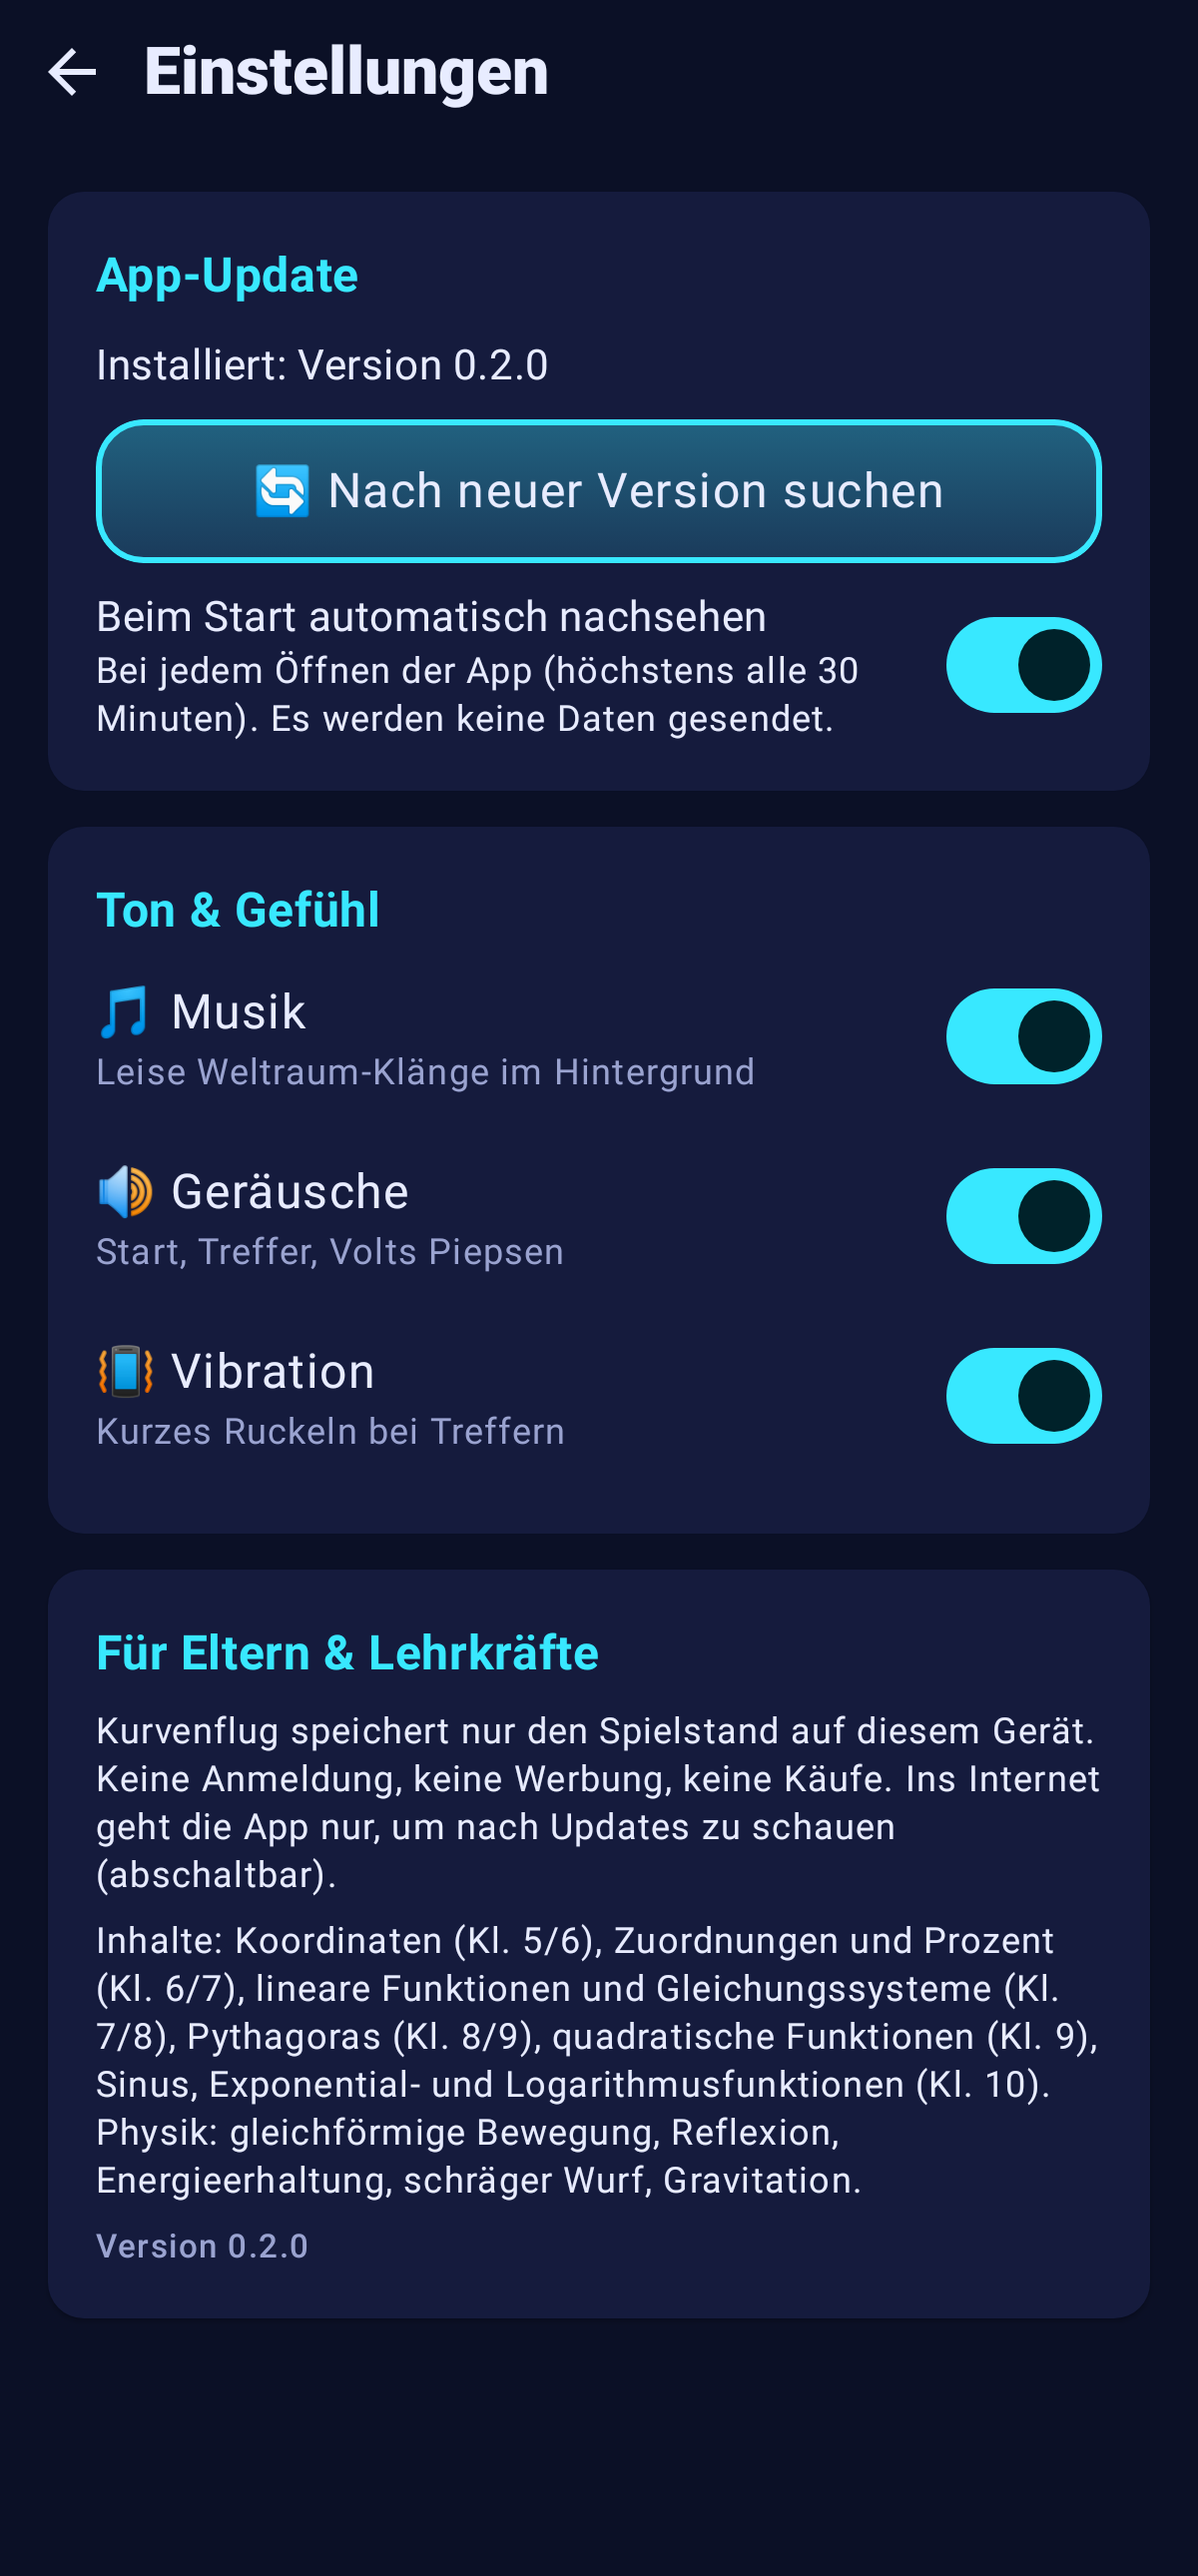
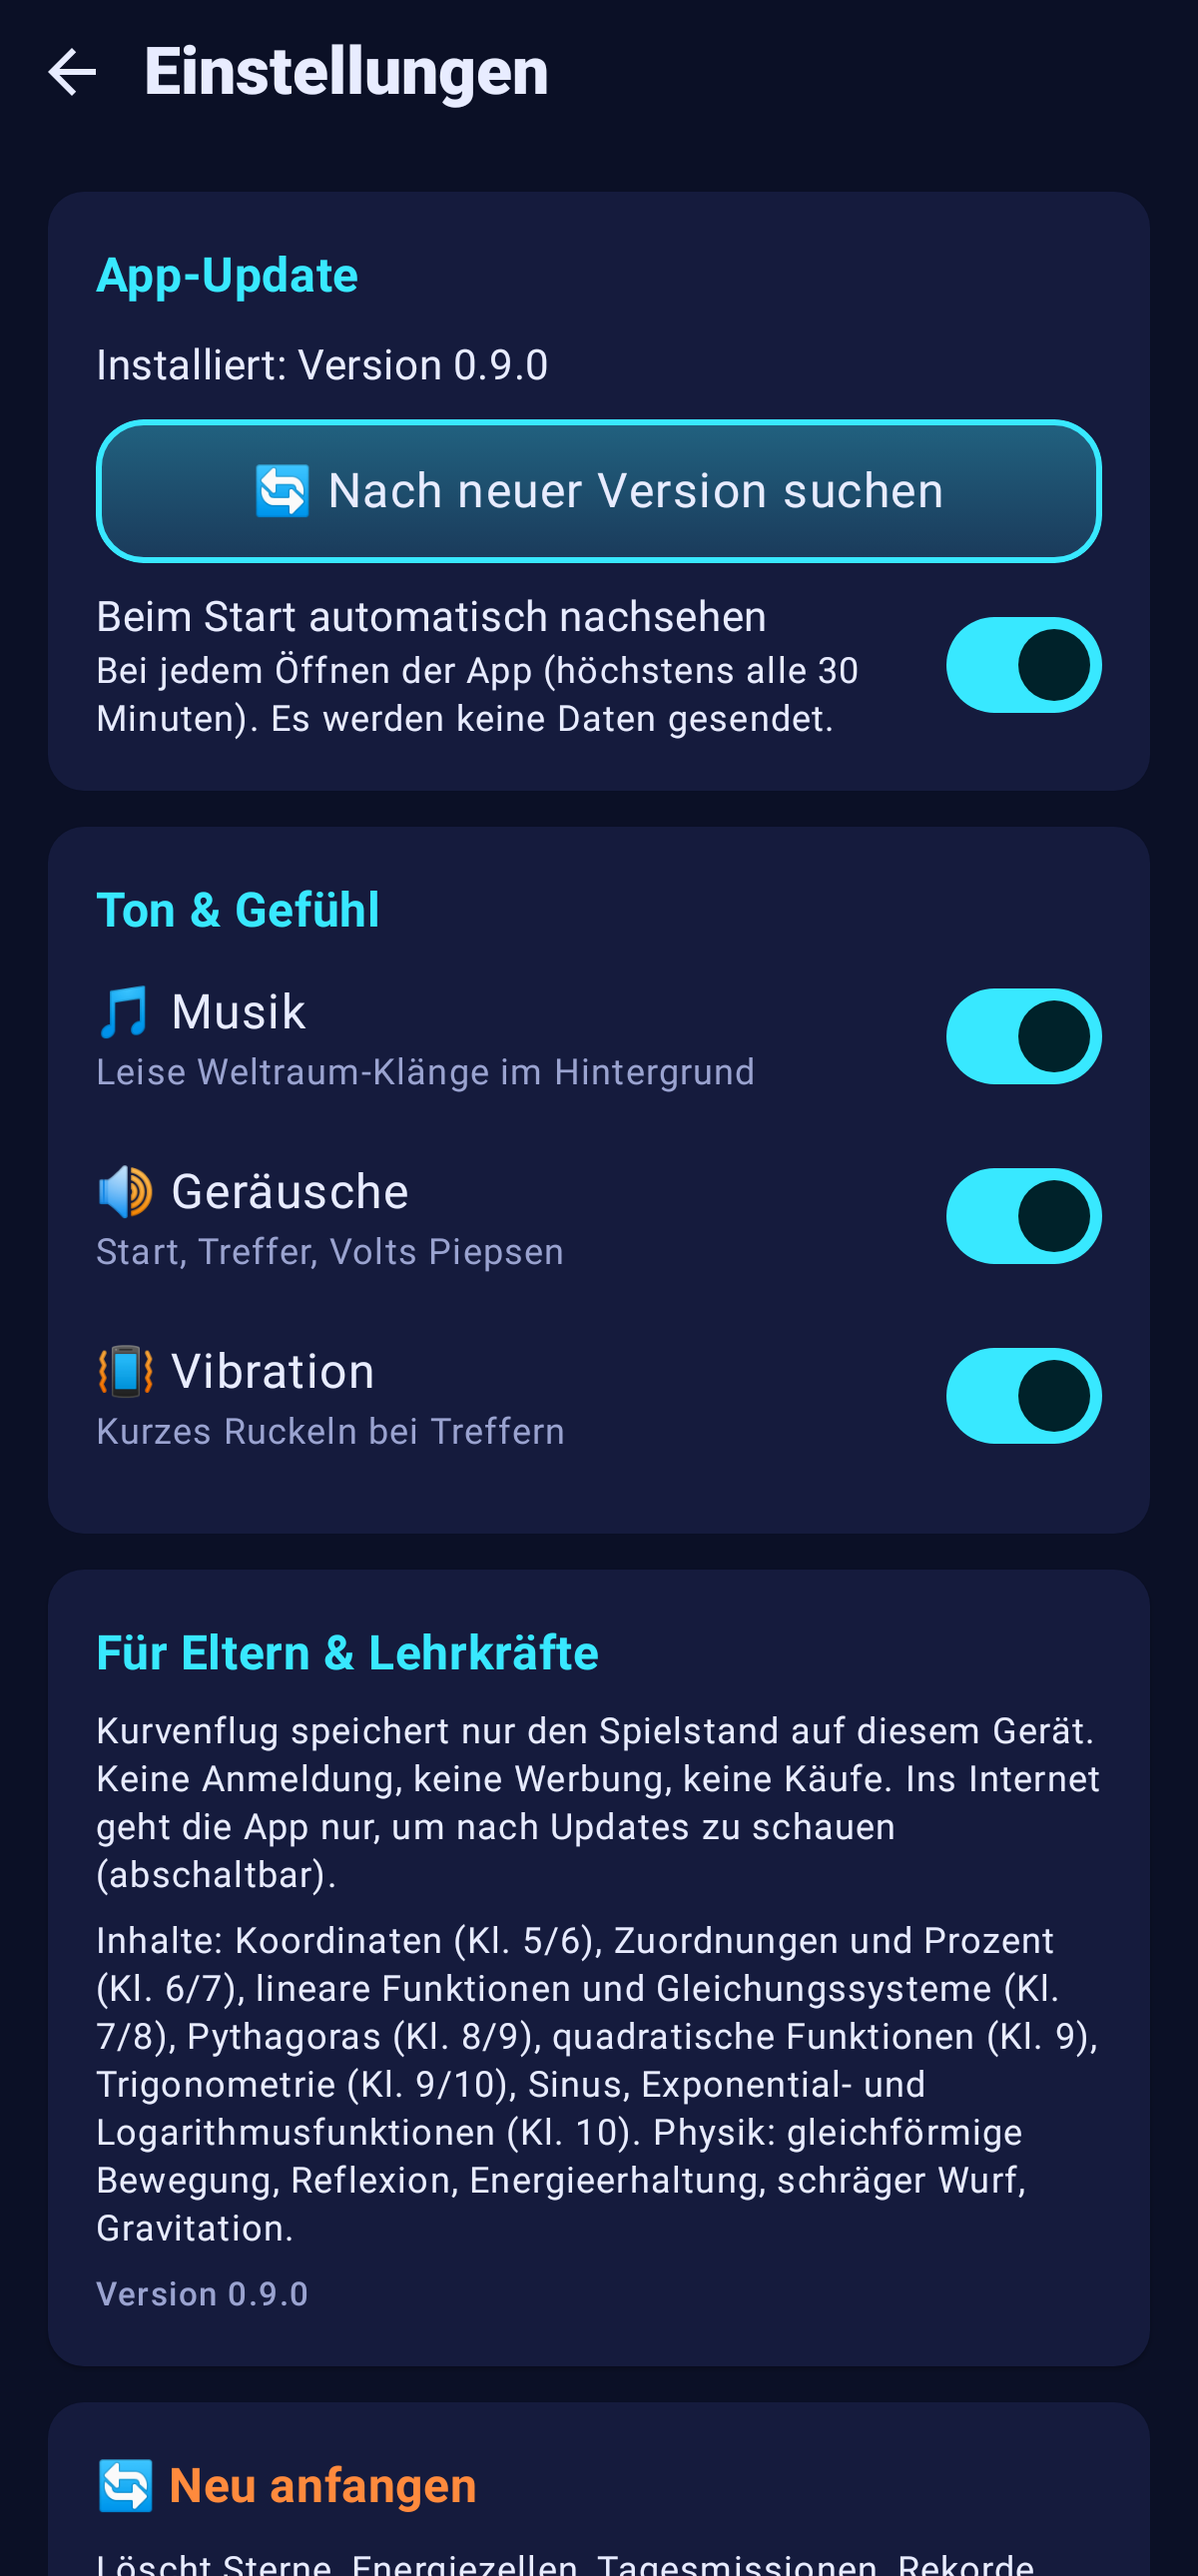
Kurvenflug 0.9.1: Fortschritt zurücksetzen (Neu anfangen)
- ProgressRepository.clear(), Settings.resetGame(): Spielstand, Rekorde, Klasse, Abzeichen, Erklärungen, Aussehen
  zurück; Ton/Musik/Vibration, Update-Einstellung und eigene Level bleiben
- Einstellungen: Karte „Neu anfangen“ mit 2 s Gedrückthalten (Balken), danach Widget aktualisiert
- Tests: Datentests für Löschen/Zurücksetzen, Ablauftest für langes Drücken

Claude-Session: https://claude.ai/code/session_015vg1TniCB6sLGd2dNSJdge

Changed region(s): [[0.0617, 0.8062, 0.8633, 0.8992], [0.0617, 0.9302, 0.8633, 1.0]]

diff --git a/kurvenflug/app/src/main/java/de/kurvenflug/app/ui/settings/SettingsScreen.kt b/kurvenflug/app/src/main/java/de/kurvenflug/app/ui/settings/SettingsScreen.kt
@@ -1,12 +1,19 @@
 package de.kurvenflug.app.ui.settings
 
+import kotlinx.coroutines.launch
+import de.kurvenflug.app.ui.fx.buzz
+import androidx.compose.ui.input.pointer.pointerInput
+import androidx.compose.ui.draw.clip
+import androidx.compose.foundation.gestures.detectTapGestures
+import androidx.compose.foundation.border
+import androidx.compose.foundation.background
 import androidx.compose.foundation.layout.*
 import androidx.compose.foundation.rememberScrollState
 import androidx.compose.foundation.verticalScroll
 import androidx.compose.material.icons.Icons
 import androidx.compose.material.icons.automirrored.filled.ArrowBack
 import androidx.compose.material3.*
-import androidx.compose.runtime.Composable
+import androidx.compose.runtime.*
 import androidx.compose.ui.Alignment
 import androidx.compose.ui.Modifier
 import androidx.compose.ui.unit.dp
@@ -22,6 +29,8 @@ fun SettingsScreen(
     installed: String,
     update: UpdateState,
     onBack: () -> Unit,
+    /** Neu anfangen: Spielstand löschen (nach 2 s Gedrückthalten) */
+    onReset: (() -> Unit)? = null,
 ) {
     Column(Modifier.fillMaxSize().systemBarsPadding()) {
         Row(verticalAlignment = Alignment.CenterVertically) {
@@ -44,11 +53,12 @@ fun SettingsScreen(
                     Text("Kurvenflug speichert nur den Spielstand auf diesem Gerät. Keine Anmeldung, keine Werbung, keine Käufe. " +
                         "Ins Internet geht die App nur, um nach Updates zu schauen (abschaltbar).", style = MaterialTheme.typography.bodySmall)
                     Text("Inhalte: Koordinaten (Kl. 5/6), Zuordnungen und Prozent (Kl. 6/7), lineare Funktionen und Gleichungssysteme (Kl. 7/8), " +
-                        "Pythagoras (Kl. 8/9), quadratische Funktionen (Kl. 9), Sinus, Exponential- und Logarithmusfunktionen (Kl. 10). " +
+                        "Pythagoras (Kl. 8/9), quadratische Funktionen (Kl. 9), Trigonometrie (Kl. 9/10), Sinus, Exponential- und Logarithmusfunktionen (Kl. 10). " +
                         "Physik: gleichförmige Bewegung, Reflexion, Energieerhaltung, schräger Wurf, Gravitation.", style = MaterialTheme.typography.bodySmall)
                     Text("Version $installed", style = MaterialTheme.typography.labelSmall, color = Q.Muted)
                 }
             }
+            if (onReset != null) ResetCard(onReset)
         }
     }
 }
@@ -61,5 +71,53 @@ private fun Toggle(title: String, sub: String, on: Boolean, onChange: (Boolean) 
             Text(sub, style = MaterialTheme.typography.bodySmall, color = Q.Muted)
         }
         Switch(on, onChange)
+    }
+}
+
+
+/**
+ * Neu anfangen – z. B. wenn ein Geschwisterkind übernimmt. Gegen Versehen: 2 Sekunden gedrückt halten,
+ * ein Balken läuft voll; loslassen bricht ab.
+ */
+@Composable
+private fun ResetCard(onReset: () -> Unit) {
+    val sfx = de.kurvenflug.app.ui.fx.LocalSfx.current
+    val view = androidx.compose.ui.platform.LocalView.current
+    val vib = de.kurvenflug.app.ui.fx.LocalVibration.current
+    val fill = remember { androidx.compose.animation.core.Animatable(0f) }
+    var done by remember { mutableStateOf(false) }
+    val scope = rememberCoroutineScope()
+    ElevatedCard(Modifier.fillMaxWidth()) {
+        Column(Modifier.padding(16.dp), verticalArrangement = Arrangement.spacedBy(8.dp)) {
+            Text("🔄 Neu anfangen", style = MaterialTheme.typography.titleMedium, color = Q.Orange)
+            Text("Löscht Sterne, Energiezellen, Tagesmissionen, Rekorde, Abzeichen und die gewählte Klasse – zum Beispiel, " +
+                "wenn ein Geschwisterkind von vorn beginnen möchte. Ton-Einstellungen und selbst gebaute Level bleiben.",
+                style = MaterialTheme.typography.bodySmall)
+            if (done) Text("✅ Alles zurückgesetzt – viel Spaß beim Neustart! 🚀", color = Q.Green, fontWeight = androidx.compose.ui.text.font.FontWeight.Bold)
+            else Box(
+                Modifier.fillMaxWidth().height(52.dp).clip(androidx.compose.foundation.shape.RoundedCornerShape(16.dp))
+                    .background(Q.Orange.copy(alpha = 0.15f))
+                    .border(2.dp, Q.Orange, androidx.compose.foundation.shape.RoundedCornerShape(16.dp))
+                    .pointerInput(Unit) {
+                        detectTapGestures(onPress = {
+                            sfx?.play(de.kurvenflug.app.ui.fx.Sound.TICK)
+                            val job = scope.launch {
+                                fill.animateTo(1f, androidx.compose.animation.core.tween(2000, easing = androidx.compose.animation.core.LinearEasing))
+                                done = true
+                                view.buzz(de.kurvenflug.app.ui.fx.Buzz.CRASH, vib)
+                                sfx?.play(de.kurvenflug.app.ui.fx.Sound.WIN)
+                                onReset()
+                            }
+                            tryAwaitRelease()
+                            if (!done) { job.cancel(); scope.launch { fill.animateTo(0f) } }
+                        })
+                    },
+                contentAlignment = Alignment.Center,
+            ) {
+                Box(Modifier.align(Alignment.CenterStart).fillMaxHeight().fillMaxWidth(fill.value).background(Q.Orange.copy(alpha = 0.5f)))
+                Text(if (fill.value > 0f) "Festhalten … ${(3 - fill.value * 2).toInt().coerceAtLeast(1)}" else "Zum Löschen 2 Sekunden gedrückt halten",
+                    fontWeight = androidx.compose.ui.text.font.FontWeight.Bold, color = Q.Text)
+            }
+        }
     }
 }

diff --git a/kurvenflug/app/src/test/java/de/kurvenflug/app/ui/LevelFlowTest.kt b/kurvenflug/app/src/test/java/de/kurvenflug/app/ui/LevelFlowTest.kt
@@ -83,6 +83,29 @@ class LevelFlowTest {
         assertEquals(1, solvedStars)
     }
 
+    /** Zurücksetzen nur nach 2 s Gedrückthalten – kurzes Tippen oder früh loslassen löscht nichts. */
+    @Test fun resetNeedsALongPress() {
+        var resets = 0
+        rule.setContent { KurvenflugTheme { Surface(color = Q.Space) {
+            de.kurvenflug.app.ui.settings.SettingsScreen(sound = true, onSound = {}, vibration = true, onVibration = {}, autoUpdate = true,
+                onAutoUpdate = {}, installed = "0.9.0", update = de.kurvenflug.app.ui.settings.UpdateState.Idle, onBack = {}, onReset = { resets++ })
+        } } }
+        rule.mainClock.autoAdvance = false
+        val button = rule.onNodeWithText("Zum Löschen 2 Sekunden gedrückt halten").performScrollTo()
+        button.performClick()
+        rule.mainClock.advanceTimeBy(3000)
+        assertEquals(0, resets)
+        button.performTouchInput { down(center) }
+        rule.mainClock.advanceTimeBy(1000)
+        rule.onNodeWithText("Festhalten", substring = true).performTouchInput { up() }
+        rule.mainClock.advanceTimeBy(3000)
+        assertEquals(0, resets)
+        rule.onNodeWithText("Zum Löschen 2 Sekunden gedrückt halten").performTouchInput { down(center) }
+        rule.mainClock.advanceTimeBy(2300)
+        assertEquals(1, resets)
+        rule.onNodeWithText("Alles zurückgesetzt", substring = true).assertExists()
+    }
+
     @Test fun stormEndsOnFirstMissAndReportsWaves() {
         var reported = -1
         rule.setContent { KurvenflugTheme { Surface(color = Q.Space) {

diff --git a/kurvenflug/core/data/src/test/java/de/kurvenflug/core/data/ProgressTest.kt b/kurvenflug/core/data/src/test/java/de/kurvenflug/core/data/ProgressTest.kt
@@ -24,4 +24,27 @@ class ProgressTest {
         assertEquals(5, p.attempts)
         assertEquals(1000L, p.solvedAt)
     }
+
+    @Test fun clearRemovesEverything() = runTest {
+        repo.record("2-1", 3, setOf(0), 1); repo.record("daily-5", 2, emptySet(), 2)
+        repo.clear()
+        assertTrue(repo.all.first().isEmpty())
+    }
+
+    /** Neu anfangen: Spielstand-Einstellungen weg, Ton und eigene Level bleiben. */
+    @Test fun resetGameKeepsSoundAndOwnLevels() {
+        val s = Settings(ApplicationProvider.getApplicationContext())
+        s.setSound(false); s.saveMyLevel("KFL1-test"); s.setGrade(7); s.markIntroSeen(3); s.markWalkthrough("LINE")
+        s.recordStorm(9); s.recordDuel(true); s.badgesSeen = setOf("boss"); s.setLook(1, 2, 1); s.skin = 2; s.detectiveBest = 6
+        s.resetGame()
+        assertNull(s.grade.value); assertFalse(s.gradeAsked.value)
+        assertFalse(s.introSeen(3)); assertEquals(0, s.walkthroughsSeen("LINE"))
+        assertEquals(0, s.stormBest.value); assertEquals(0, s.duelsPlayed.value); assertTrue(s.badgesSeen.isEmpty())
+        assertEquals(Triple(0, 0, 0), s.look.value); assertEquals(0, s.skin); assertEquals(0, s.detectiveBest)
+        // bleibt
+        assertFalse(s.sound.value); assertEquals(listOf("KFL1-test"), s.myLevels.value)
+        // auch nach Neustart (neu aus den Einstellungen gelesen)
+        val again = Settings(ApplicationProvider.getApplicationContext())
+        assertNull(again.grade.value); assertFalse(again.sound.value)
+    }
 }

diff --git a/kurvenflug/core/data/src/main/java/de/kurvenflug/core/data/Progress.kt b/kurvenflug/core/data/src/main/java/de/kurvenflug/core/data/Progress.kt
@@ -20,6 +20,8 @@ interface ProgressDao {
     @Query("SELECT * FROM progress") fun all(): Flow<List<LevelProgress>>
     @Query("SELECT * FROM progress WHERE levelId = :id") suspend fun get(id: String): LevelProgress?
     @Upsert suspend fun put(p: LevelProgress)
+    /** Neu anfangen: ganzen Spielstand löschen (nur auf ausdrücklichen Wunsch in den Einstellungen) */
+    @Query("DELETE FROM progress") suspend fun clear()
 }
 
 @Database(entities = [LevelProgress::class], version = 1, exportSchema = true)
@@ -36,6 +38,9 @@ abstract class FlightDatabase : RoomDatabase() {
 /** Speichert Ergebnisse – das Beste bleibt (Sterne sinken nie, Energiezellen bleiben gesammelt). */
 class ProgressRepository(private val dao: ProgressDao, private val clock: () -> Long = System::currentTimeMillis) {
     val all: Flow<List<LevelProgress>> = dao.all()
+
+    /** Alles löschen – nur über „Neu anfangen“ in den Einstellungen (mit Gedrückthalten bestätigt). */
+    suspend fun clear() = dao.clear()
 
     suspend fun record(levelId: String, stars: Int, cells: Set<Int>, attempts: Int) {
         val old = dao.get(levelId)

diff --git a/kurvenflug/core/data/src/main/java/de/kurvenflug/core/data/Settings.kt b/kurvenflug/core/data/src/main/java/de/kurvenflug/core/data/Settings.kt
@@ -93,6 +93,21 @@ class Settings(ctx: Context) {
         get() = prefs.getInt("detectiveBest", 0)
         set(v) = prefs.edit().putInt("detectiveBest", v).apply()
 
+    /**
+     * Neu anfangen: Rekorde, Klasse, Abzeichen, Erklärungen, Aussehen auf Anfang.
+     * Bleiben: Ton/Musik/Vibration, Update-Einstellung und die selbst gebauten Level.
+     */
+    fun resetGame() {
+        val e = prefs.edit()
+        prefs.all.keys.filter { it.startsWith("intro_") || it.startsWith("walk_") }.forEach { e.remove(it) }
+        listOf("grade", "gradeAsked", "shape", "trail", "hat", "skin", "stormBest", "duelWins", "duelsPlayed", "badgesSeen", "detectiveBest")
+            .forEach { e.remove(it) }
+        e.apply()
+        _grade.value = null; _gradeAsked.value = false
+        _look.value = Triple(0, 0, 0)
+        _stormBest.value = 0; _duelWins.value = 0; _duelsPlayed.value = 0
+    }
+
     var lastUpdateCheck: Long
         get() = prefs.getLong("lastUpdateCheck", 0)
         set(v) = prefs.edit().putLong("lastUpdateCheck", v).apply()

diff --git a/kurvenflug/app/src/test/java/de/kurvenflug/app/ui/ScreenshotTest.kt b/kurvenflug/app/src/test/java/de/kurvenflug/app/ui/ScreenshotTest.kt
@@ -101,7 +101,7 @@ class ScreenshotTest {
         prepare = { it.onNodeWithText("🚀 Start").performClick() })
 
     @Test fun settings() = shot("11_einstellungen") {
-        SettingsScreen(sound = true, onSound = {}, vibration = true, onVibration = {}, autoUpdate = true, onAutoUpdate = {}, installed = "0.2.0", update = UpdateState.Idle, onBack = {})
+        SettingsScreen(sound = true, onSound = {}, vibration = true, onVibration = {}, autoUpdate = true, onAutoUpdate = {}, installed = "0.9.0", update = UpdateState.Idle, onBack = {}, onReset = {})
     }
 
     @Test fun sine() = level("5-4", name = "12_sinus", values = mapOf("a" to 2.0, "b" to 1.0, "d" to -1.0), settle = 3500,

diff --git a/kurvenflug/app/src/main/java/de/kurvenflug/app/AppViewModel.kt b/kurvenflug/app/src/main/java/de/kurvenflug/app/AppViewModel.kt
@@ -76,6 +76,16 @@ class AppViewModel(app: Application) : AndroidViewModel(app) {
         }
     }
 
+    /** Neu anfangen: Spielstand und Spiel-Einstellungen löschen (Ton & eigene Level bleiben), Widget nachziehen. */
+    fun resetAll() {
+        viewModelScope.launch {
+            c.progress.clear()
+            settings.resetGame()
+            _skin.value = 0
+            de.kurvenflug.app.widget.KurvenflugWidget.refresh(getApplication())
+        }
+    }
+
     // ------------------------------------------------------------ App-Update
     private val _update = MutableStateFlow<AppRelease?>(null)
     private companion object { const val CHECK_EVERY_MS = 30 * 60_000L }

diff --git a/kurvenflug/app/src/main/java/de/kurvenflug/app/MainActivity.kt b/kurvenflug/app/src/main/java/de/kurvenflug/app/MainActivity.kt
@@ -299,6 +299,7 @@ class MainActivity : ComponentActivity() {
                     installed = BuildConfig.VERSION_NAME,
                     update = upd?.let { UpdateState.Available(it) } ?: UpdateState.Idle,
                     onBack = { nav.popSafe() },
+                    onReset = vm::resetAll,
                 )
             }
         }

diff --git a/kurvenflug/CHANGELOG.md b/kurvenflug/CHANGELOG.md
@@ -3,6 +3,12 @@
 Kurz und verständlich für Schüler und Eltern. Der Abschnitt der aktuellen Version erscheint automatisch
 im GitHub-Release und in der App unter „App-Update“.
 
+## 0.9.1 – Neu anfangen
+- **🔄 Fortschritt zurücksetzen**: In den Einstellungen ganz unten unter „Neu anfangen“. Löscht Sterne, Energiezellen,
+  Tagesmissionen, Rekorde, Abzeichen und die gewählte Klasse – praktisch, wenn ein Geschwisterkind von vorn beginnt.
+  Ton-Einstellungen und selbst gebaute Level bleiben erhalten.
+- Gegen Versehen: Der Knopf muss 2 Sekunden gedrückt gehalten werden, ein Balken läuft dabei voll.
+
 ## 0.9.0 – Widget für den Startbildschirm
 - **📱 Kurvenflug-Widget**: Lange auf den Startbildschirm drücken → Widgets → Kurvenflug. Volt zeigt dort, was heute dran ist:
   die Tagesmission, „Weiter geht's“ mit deinem nächsten Level und – wenn fällig – ein Thema zum Auffrischen.
